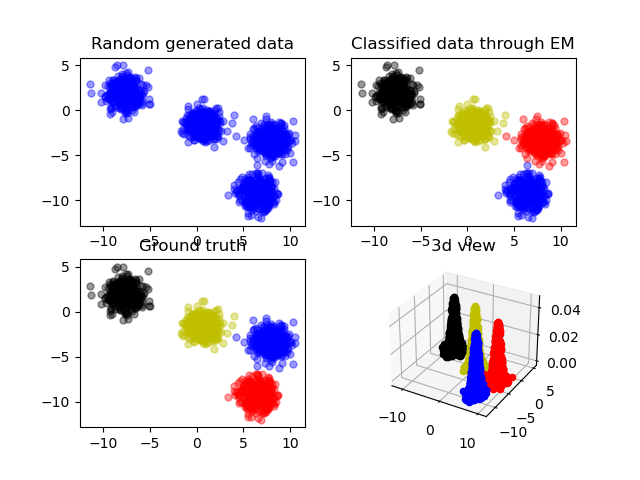
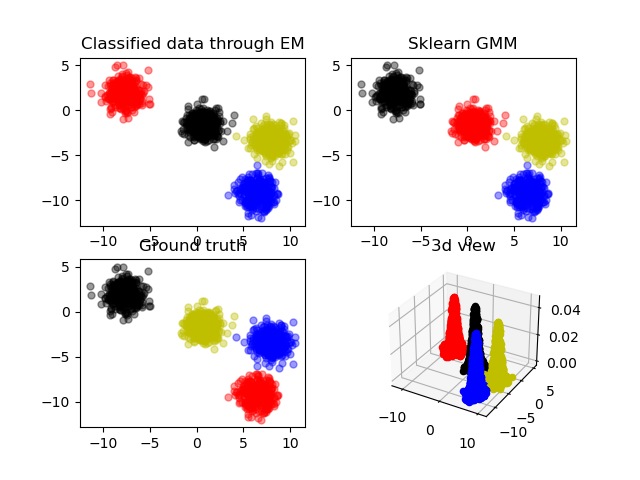
add comparison with sklearn

diff --git a/mix_gaussian.py b/mix_gaussian.py
@@ -2,7 +2,7 @@ import pandas as pd
 import numpy as np
 import matplotlib.pyplot as plt
 from mpl_toolkits.mplot3d import Axes3D
-
+from sklearn.mixture import GaussianMixture
 
 
 class EM_Gaussian:
@@ -15,23 +15,6 @@ class EM_Gaussian:
         self.mu = None    # Average of each dimension
         self.gamma = None # Gamma of each model
         self.tol = tol
-
-    def load_data(self, X_csv_path): 
-        print("-"*20, "LOADING","-"*20)
-        data = pd.read_csv(X_csv_path)
-        self.X = np.mat(data.values.tolist())[:, 1:3]
-        self.y = np.mat(data.values.tolist())[:, 3]
-        self.N = self.X.shape[0]
-        print("Data shape:", self.X.shape)
-
-        # Random initialization
-        self.alpha=[1/self.k for _ in range(self.k)]    # Mixture coefficient initialization
-        self.gamma = np.zeros((self.N, self.k))     # Expectation that i-th data belongs to j-th model
-        # self.gamma = np.random.random((self.N, self.k)) 
-        self.mu = np.random.random((self.k, self.dim))
-        # self.mu = np.ones((self.k, self.dim))
-        # self.mu = self.X.mean(axis=0).repeat(self.k, axis=0)
-        self.sigma = [np.mat(np.identity(self.dim)) for _ in range(self.k)]
 
     def generate_data(self, 
         sigma = [np.mat([[30, 0], [0, 30]]) for _ in range(4)], 
@@ -79,8 +62,23 @@ class EM_Gaussian:
             self.alpha[j] = gamma / N    
             self.sigma[j] = gamma_y_mu / gamma   
 
-    def fit(self, iter_num=1000):
+    def fit(self, X, y, iter_num=1000):
         print("-"*20, "FITTING","-"*20)
+        self.X = X
+        self.y = y
+        self.N = self.X.shape[0]
+        print("Data shape:", self.X.shape)
+
+        # Random initialization
+        self.alpha=[1 / self.k for _ in range(self.k)]    # Mixture coefficient initialization
+        self.gamma = np.zeros((self.N, self.k))     # Expectation that i-th data belongs to j-th model
+        # self.gamma = np.random.random((self.N, self.k)) 
+        self.mu = np.random.random((self.k, self.dim))
+        # self.mu = np.ones((self.k, self.dim))
+        # self.mu = self.X.mean(axis=0).repeat(self.k, axis=0)
+        self.sigma = [np.mat(np.identity(self.dim)) for _ in range(self.k)]
+
+        # Fitting
         for i in range(iter_num):
             err, err_alpha = 0, 0    
             Old_mu = self.mu.copy()
@@ -93,23 +91,33 @@ class EM_Gaussian:
             print("Iteration:{}, err_mean:{:.5f}, err_alpha:{:.5f}".format(i+1, err, err_alpha))
             if (err<=self.tol) and (err_alpha<self.tol):  break
                        
-    def visualization(self, show_img=False, save_img=False, show_3D=True):
+    def visualize(self, show_img=False, save_img=False, show_3D=True):
         print("-"*20, "VISUALIZATION","-"*20)
         probability = np.zeros(self.N)  
 
         # Original data, c: scatter color，s: scatter size，alpha: transparent，marker: scatter shape
-        plt.subplot(221)
-        plt.scatter(self.X[:,0].tolist(), self.X[:,1].tolist(), c='b', s=25, alpha=0.4, marker='o')    
-        plt.title('Random generated data')
+        # plt.subplot(221)
+        # plt.scatter(self.X[:,0].tolist(), self.X[:,1].tolist(), c='b', s=25, alpha=0.4, marker='o')    
+        # plt.title('Random generated data')
 
         # Classified data
-        plt.subplot(222)
+        plt.subplot(221)
         plt.title('Classified data through EM')
         order = np.argmax(self.gamma, axis=1) # which model X[i,:] belongs to
         color=['b','r','k','y']
         for i in range(self.N):  
             plt.scatter(self.X[i, 0].tolist(), self.X[i, 1].tolist(), c=color[int(order[i])], s=25, alpha=0.4, marker='o') 
         
+        # Result of sklearn 
+        gmm = GaussianMixture(n_components=self.k, covariance_type='full').fit(self.X)
+        y_gmm = gmm.predict(self.X)
+        print(y_gmm)
+        plt.subplot(222)
+        plt.title('Sklearn GMM')
+        for i in range(self.N):
+            plt.scatter(self.X[i, 0].tolist(), self.X[i, 1].tolist(), c=color[int(y_gmm[i])], s=25, alpha=0.4, marker='o')
+
+
         # Ground truth
         plt.subplot(223)
         plt.title('Ground truth')
@@ -129,12 +137,16 @@ class EM_Gaussian:
         if save_img: plt.savefig("result.png")
         if show_img: plt.show()
         
-
 if __name__ == '__main__':
 
-    path = "data\GMM_EM_data_for_clustering.csv"
+    X_csv_path = "data\GMM_EM_data_for_clustering.csv"
+    k = 4
 
-    model = EM_Gaussian(4)
-    model.load_data(path)
-    model.fit(iter_num=1000)
-    model.visualization(save_img=True)
+    # Loading 
+    data = pd.read_csv(X_csv_path)
+    X = np.mat(data.values.tolist())[:, 1:3]
+    y = np.mat(data.values.tolist())[:, 3]
+
+    model = EM_Gaussian(k)
+    model.fit(X, y, iter_num=1000)
+    model.visualize(save_img=True)

diff --git a/README.md b/README.md
@@ -1,2 +1,18 @@
 # GMM-Clustering-Algorithm-in-python
 Gaussian Mixture Models Clustering Algorithm in python
+
+# Installation
++ Clone this repo:
+```
+git clone https://github.com/shiyegao/GMM-Clustering.git
+cd GMM-Clustering
+```
++ Install some dependencies:
+```
+pip install -r requirements.txt
+```
+
+# Getting started
+```
+python smo.py
+```
